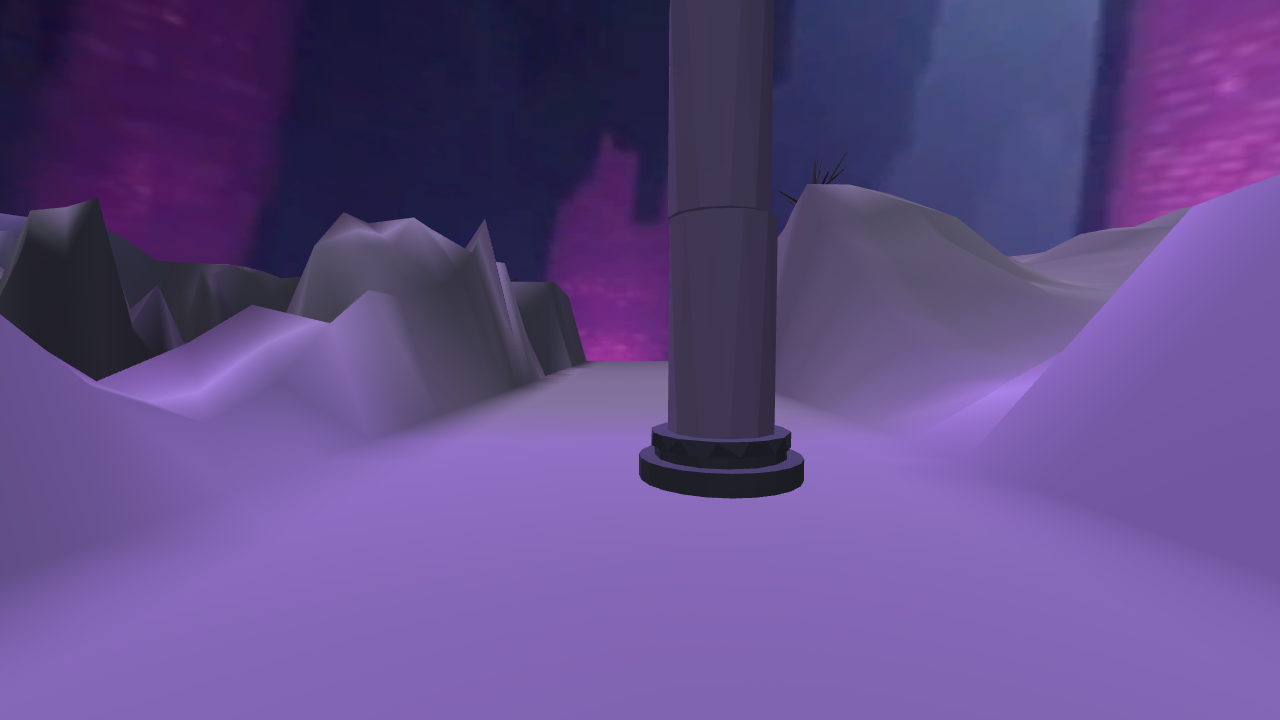
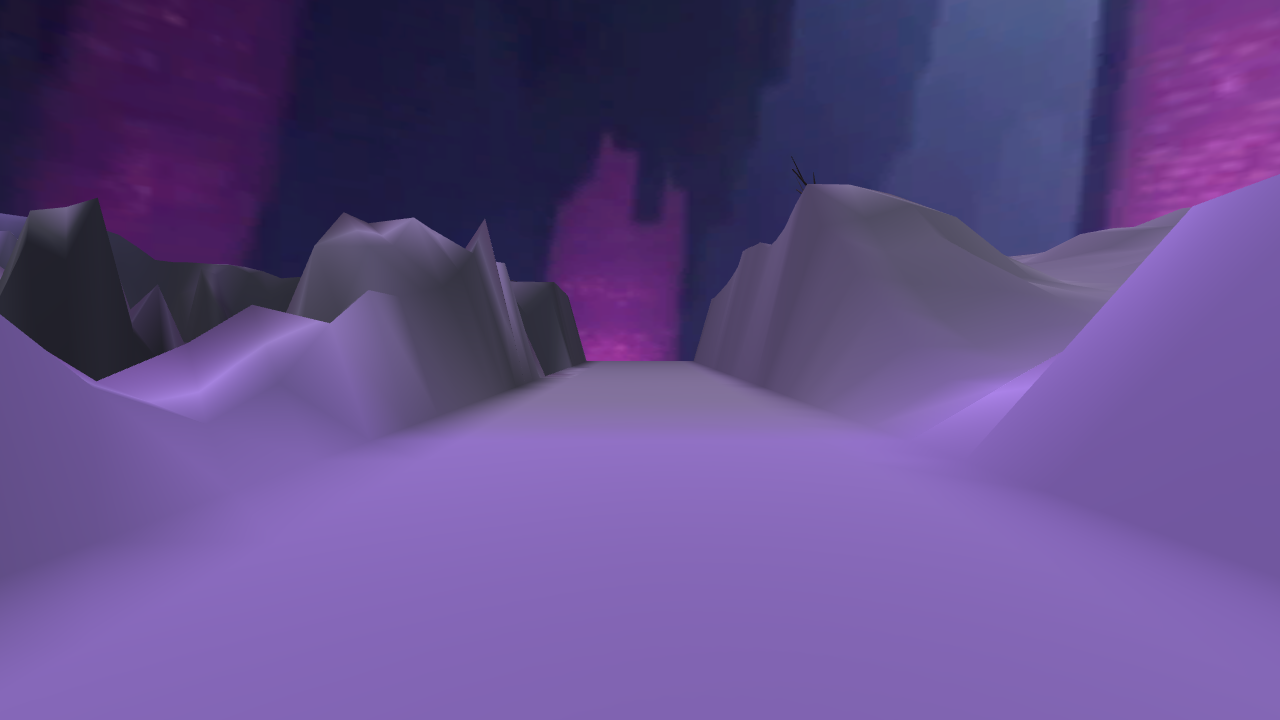
preview: 🌙 Stage 3 재진행 시작 — 물 인지 기능 구역: 호숫가 어촌(어부 오두막+핑거 부두+건조대) 신설(논문 Fishing Village 대응). Stage 2 보강: 바이옴 지면색+scrub 지면식생으로 재질 구역 읽힘(codex: 재질구역 YES). 3070 R22 부두·풀 즉납 편입. plan.html에 Stage 3.1~3.3 진행중 표시

Changed region(s): [[0.5, 0.0, 0.6562, 0.7028]]

diff --git a/plan.html b/plan.html
@@ -125,17 +125,19 @@ const STEPS = [
      <div><span class="old">구역 = 건물 중심 분할(threshold/spine/core/precinct)</span> → <span class="new">기능 구역(광장·주거·보급·수변 어촌 등) + 물·지형 인지 배치</span></div>
    </div>` },
 
- { stage:"Stage 3 — Regional Object Generation & Placement", status:"wait",
+ { stage:"Stage 3 — Regional Object Generation & Placement", status:"run",
    title:"3.1 Region Planning — 기능 구역 분할 (divide regions)",
-   body:`<p>맵을 <b>기능이 다른 구역</b>으로 나눈다(논문 예: Festival Plaza·Cabin Village·Supply Site·Fishing Village). 우리판: 시민 광장·주거 지구·보급/시장·<b>수변 어촌(부두)</b>·성소 등 — 물·지형에 맞춰 배치(수변엔 어촌·부두, 고지엔 방어·봉화).</p>` },
+   body:`<p>맵을 <b>기능이 다른 구역</b>으로 나눈다(논문 예: Festival Plaza·Cabin Village·Supply Site·Fishing Village). 우리판: 시민 광장·주거 지구·보급/시장·<b>수변 어촌(부두)</b>·성소 등.</p>
+   <ul><li>✔ <b>수변 어촌</b> 신설 — 호숫가 은행에 어부 오두막 + 핑거 부두(물로 뻗음) + 건조대 + 갈대(<code>DressWaterfront</code>). 논문 Fishing Village 대응, 물과 관계 맺는 첫 기능 구역.</li>
+     <li>기존 구역(광장·주거·보급·성소)은 옛 town 시스템을 물·지형 인지로 재편 예정.</li></ul>` },
 
- { stage:"Stage 3 — Regional Object Generation & Placement", status:"wait",
+ { stage:"Stage 3 — Regional Object Generation & Placement", status:"run",
    title:"3.2 Terrain-Aware Rendering & Placement — 구역별 지형 인지 배치",
-   body:`<p>구역마다 오브젝트를 <b>지형을 인지해</b> 배치(논문: region 렌더→오브젝트 검출→3D 배치, 지형에 자세 맞춤). 우리판: 스펙 구동 배치 + co-deformation 접지 패드 + 비겹침 + <b>물 인지</b>(물에 건물 안 놓고, 수변엔 부두·갈대) + 경사 접지.</p>` },
+   body:`<p>오브젝트를 <b>지형·물을 인지해</b> 배치. ✔ 수변: 은행 접지(경사 검사)·부두는 수면 위·건물은 물 밖. ✔ 지면식생 <code>scrub_tuft</code>로 식생 구역을 기하로. 남음: 도심 구역 자체를 물·새 지형에 맞춰 재정렬.</p>` },
 
- { stage:"Stage 3 — Regional Object Generation & Placement", status:"wait",
+ { stage:"Stage 3 — Regional Object Generation & Placement", status:"run",
    title:"3.3 Scene Refinement — 구역별 정련 루프 (pose/scale/collision/quality)",
-   body:`<p>구역을 하나씩 근접 렌더해 <b>자세·스케일·충돌·품질</b>을 점검·수정(논문: for region in a,b,c,d). 우리판: 워크스루 QA + codex 적대적 시각 리뷰를 구역 단위로. <b>중간검토 필수</b>.</p>` },
+   body:`<p>구역별 근접 렌더 → <b>자세·스케일·충돌·품질</b> 점검·수정. ✔ codex 중간검토: 재질구역 YES, 수변 SOMEWHAT→핑거부두·건조대 보강. <b>중간검토 계속</b>. 남음: 도심 재정렬 후 전체 워크스루 QA.</p>` },
 ];
 
 const ICON = {done:"완료", run:"진행 중", wait:"대기"};
